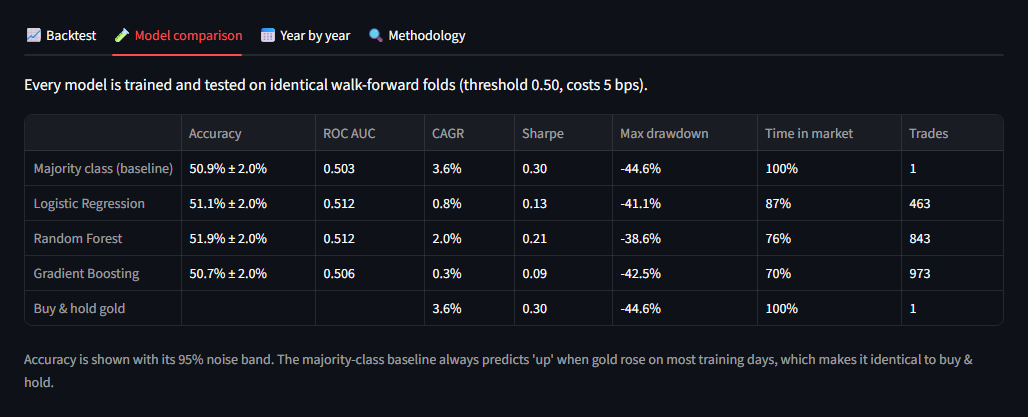
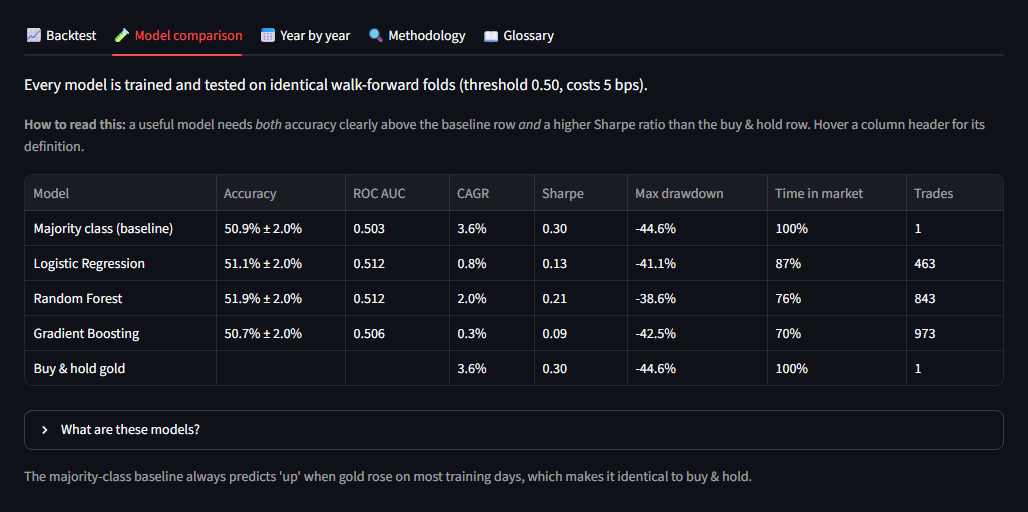
Add in-app guidance: how-to guide, tooltips and searchable glossary
- "How to use this dashboard" guide under the title
- Tooltips on every sidebar control, headline metric and table column
- "How to read this" notes on each tab and chart
- Description of the selected model, plus a models explainer
- New Glossary tab with 26 plain-English terms and search
- Definitions live in glossary.py so tooltips and glossary stay in sync
- Shorter metric labels so they no longer truncate on narrow screens
- Tests for glossary search and help-text coverage; refreshed screenshots

diff --git a/app.py b/app.py
@@ -9,6 +9,7 @@ import plotly.graph_objects as go
 import streamlit as st
 from plotly.subplots import make_subplots
 
+from glossary import COLUMN_HELP, MODEL_INFO, TERMS
 from goldpred.backtest import buy_and_hold, drawdown_curve, equity_curve, performance
 from goldpred.data import load_prices
 from goldpred.evaluate import classification_metrics, walk_forward
@@ -42,24 +43,37 @@ def get_predictions(model_name: str, first_test_year: int, windows: tuple[int, i
 # ---------- sidebar ----------
 with st.sidebar:
     st.header("⚙ Settings")
-    model_name = st.selectbox("Model", MODEL_NAMES, index=MODEL_NAMES.index("Random Forest"))
+    st.caption("Hover the small **?** icons for definitions, or open the 📖 Glossary tab.")
+    model_name = st.selectbox(
+        "Model", MODEL_NAMES, index=MODEL_NAMES.index("Random Forest"),
+        help="The classifier being tested. Pick the baseline to see the benchmark every model has to beat.",
+    )
+    st.caption(MODEL_INFO[model_name])
     first_test_year = st.slider(
         "First out-of-sample year", 2006, 2018, 2010,
-        help="Each year from here on is predicted by a model trained only on earlier years.",
+        help="Where testing starts. Each year from here on is predicted by a model trained only on "
+        "earlier years (walk-forward validation). Earlier start = more test years, less training data.",
     )
     st.subheader("Strategy")
     threshold = st.slider(
         "Go long when P(up) >", 0.40, 0.60, 0.50, 0.01,
-        help="Otherwise the strategy holds cash for the day.",
+        help=TERMS["P(up) threshold"] + " Otherwise the strategy holds cash for the day.",
     )
     cost_bps = st.slider(
         "Transaction cost (bps per trade)", 0.0, 20.0, 5.0, 0.5,
-        help="Charged every time the position changes. 1 bp = 0.01%.",
+        help=TERMS["Transaction cost"] + " " + TERMS["Basis point (bp)"],
     )
     with st.expander("Feature windows (trading days)"):
-        short_window = st.slider("Short trend", 3, 20, 5)
-        long_window = st.slider("Long trend", 10, 100, 20)
-        vol_window = st.slider("Volatility", 5, 60, 10)
+        st.caption("How many past trading days each feature looks back over.")
+        short_window = st.slider(
+            "Short trend", 3, 20, 5,
+            help="Length of the short moving average. The feature is yesterday's price relative to it.",
+        )
+        long_window = st.slider(
+            "Long trend", 10, 100, 20,
+            help="Length of the long moving average. Captures slower, multi-week trends.",
+        )
+        vol_window = st.slider("Volatility", 5, 60, 10, help=TERMS["Volatility"])
     st.caption(
         "Defaults were fixed before looking at test results. Sliding these until the "
         "backtest looks good is overfitting to the test period, not a better model."
@@ -85,19 +99,49 @@ st.markdown(
     f"trading days** ({test_period}) and traded as a long/cash strategy after costs."
 )
 
+with st.expander("🧭 New here? How to use this dashboard"):
+    st.markdown(
+        """
+1. **Pick a model** in the sidebar (on mobile, tap **›** at the top left to open it). Each model
+   is trained only on years *before* the one it predicts, exactly as it would be used in real life.
+2. **Read the five numbers below.** The small coloured tag under each compares the model with the
+   naive *baseline* or with simply *buying and holding gold*: green is better, red is worse.
+3. **Read the verdict box.** It sums up whether the model shows real skill and whether that
+   skill survives trading costs.
+4. **Explore the tabs:**
+   - 📈 **Backtest**: how \\$1 would have grown trading on the model, and how costs erode it.
+   - 🧪 **Model comparison**: all four models side by side on identical test data.
+   - 📅 **Year by year**: whether results are consistent or driven by a few lucky years.
+   - 🔍 **Methodology**: how the data, features and testing work.
+   - 📖 **Glossary**: plain-English definitions of every term, with search.
+5. **Hover the small ? icons** (or a table column header) for a quick definition.
+
+⚠ *Changing the sliders until the backtest looks great is overfitting: you're fitting to the
+test period, not finding a better model. The defaults were fixed before any results were seen.*
+"""
+    )
+
 cols = st.columns(5)
 cols[0].metric(
-    "Directional accuracy", f"{clf['accuracy']:.1%}",
+    "Accuracy", f"{clf['accuracy']:.1%}",
     f"{pp(clf['accuracy'] - base_clf['accuracy'])} vs baseline",
-    help=f"±{clf['accuracy_ci95']:.1%} is the 95% noise band for this many days. "
-    f"Baseline = always predict the training set's most common direction.",
+    help=f"{TERMS['Accuracy']}\n\nThe noise band for {clf['n_days']:,} days is ±{clf['accuracy_ci95']:.1%}: "
+    f"a smaller gap to the baseline ({base_clf['accuracy']:.1%}) could be pure luck.",
 )
-cols[1].metric("ROC AUC", f"{clf['roc_auc']:.3f}", help="0.5 = no better than a coin flip.")
-cols[2].metric("Strategy CAGR", f"{strat['cagr']:.1%}", f"{pp(strat['cagr'] - market['cagr'])} vs buy & hold")
-cols[3].metric("Sharpe ratio", f"{strat['sharpe']:.2f}", f"{strat['sharpe'] - market['sharpe']:+.2f} vs buy & hold")
+cols[1].metric("ROC AUC", f"{clf['roc_auc']:.3f}", help=TERMS["ROC AUC"])
+cols[2].metric(
+    "CAGR", f"{strat['cagr']:.1%}", f"{pp(strat['cagr'] - market['cagr'])} vs buy & hold",
+    help=f"{TERMS['CAGR']}\n\nStrategy after costs vs. buy & hold ({market['cagr']:.1%}).",
+)
+cols[3].metric(
+    "Sharpe ratio", f"{strat['sharpe']:.2f}", f"{strat['sharpe'] - market['sharpe']:+.2f} vs buy & hold",
+    help=f"{TERMS['Sharpe ratio']}\n\nBuy & hold gold scored {market['sharpe']:.2f}.",
+)
 cols[4].metric(
     "Max drawdown", f"{strat['max_drawdown']:.1%}",
     f"{pp(strat['max_drawdown'] - market['max_drawdown'])} vs buy & hold",
+    help=f"{TERMS['Drawdown']}\n\nBuy & hold's worst fall was {market['max_drawdown']:.1%}; "
+    "a green tag means the strategy's worst fall was smaller.",
 )
 
 edge = clf["accuracy"] - base_clf["accuracy"]
@@ -113,12 +157,18 @@ verdict = (
 )
 (st.success if significant and beats_market else st.info)(verdict, icon="🧭")
 
-tab_backtest, tab_models, tab_years, tab_method = st.tabs(
-    ["📈 Backtest", "🧪 Model comparison", "📅 Year by year", "🔍 Methodology"]
+tab_backtest, tab_models, tab_years, tab_method, tab_glossary = st.tabs(
+    ["📈 Backtest", "🧪 Model comparison", "📅 Year by year", "🔍 Methodology", "📖 Glossary"]
 )
 
 # ---------- backtest ----------
 with tab_backtest:
+    st.caption(
+        "**How to read this:** the top chart shows how **\\$1** invested on the first test day would have "
+        "grown, for the model's strategy (gold) and for buying and holding gold (grey). The bottom chart "
+        "shows the **drawdown**: how far each was below its previous peak. Shallower is better. "
+        "Hover the chart to see the values on any date."
+    )
     fig = make_subplots(rows=2, cols=1, shared_xaxes=True, row_heights=[0.7, 0.3], vertical_spacing=0.04)
     for daily, name, color in [(market_daily, "Buy & hold gold", GREY), (strat_daily, f"{model_name} strategy", GOLD)]:
         fig.add_scatter(x=daily.index, y=equity_curve(daily), name=name, line=dict(color=color), row=1, col=1)
@@ -132,13 +182,28 @@ with tab_backtest:
                       legend=dict(orientation="h", y=1.06, x=0))
     st.plotly_chart(fig, width="stretch")
 
+    years_tested = len(oos) / 252
     c1, c2, c3, c4 = st.columns(4)
-    c1.metric("Time in market", f"{strat['exposure']:.0%}")
-    c2.metric("Trades", f"{strat['trades']:,}")
-    c3.metric("Strategy total return", f"{strat['total_return']:.0%}")
-    c4.metric("Buy & hold total return", f"{market['total_return']:.0%}")
+    c1.metric("Time in market", f"{strat['exposure']:.0%}", help=TERMS["Time in market"])
+    c2.metric(
+        "Trades", f"{strat['trades']:,}",
+        help=f"{TERMS['Trade']} That's about {strat['trades'] / years_tested:.0f} trades a year.",
+    )
+    c3.metric(
+        "Strategy total return", f"{strat['total_return']:.0%}",
+        help=f"Overall gain or loss over the whole test period ({test_period}), after costs.",
+    )
+    c4.metric(
+        "Buy & hold total return", f"{market['total_return']:.0%}",
+        help=TERMS["Buy & hold"],
+    )
 
     st.subheader("How much do trading costs matter?")
+    st.caption(
+        "Each point re-runs the same backtest with a different cost per trade (x-axis). Where the gold "
+        "line drops below the grey one, costs have eaten the model's advantage. The dotted line marks "
+        "the cost currently set in the sidebar."
+    )
     costs = np.arange(0, 20.01, 0.25)
     sweep = pd.DataFrame(
         {
@@ -169,16 +234,34 @@ with tab_models:
         f"Every model is trained and tested on identical walk-forward folds "
         f"(threshold {threshold:.2f}, costs {cost_bps:g} bps)."
     )
-    all_oos = {name: get_predictions(name, first_test_year, windows) for name in MODEL_NAMES}
-    table = format_table(summarize(all_oos, threshold, cost_bps))
-    st.dataframe(table, width="stretch")
     st.caption(
-        "Accuracy is shown with its 95% noise band. The majority-class baseline always "
-        "predicts 'up' when gold rose on most training days, which makes it identical to buy & hold."
+        "**How to read this:** a useful model needs *both* accuracy clearly above the baseline row "
+        "*and* a higher Sharpe ratio than the buy & hold row. Hover a column header for its definition."
+    )
+    all_oos = {name: get_predictions(name, first_test_year, windows) for name in MODEL_NAMES}
+    table = format_table(summarize(all_oos, threshold, cost_bps)).rename_axis("Model").reset_index()
+    st.dataframe(
+        table, width="stretch", hide_index=True,
+        column_config={
+            "Model": st.column_config.TextColumn("Model", help="Open \"What are these models?\" below the table."),
+            **{col: st.column_config.TextColumn(col, help=text) for col, text in COLUMN_HELP.items()},
+        },
+    )
+    with st.expander("What are these models?"):
+        st.markdown("\n".join(f"- **{name}**: {text}" for name, text in MODEL_INFO.items()))
+    st.caption(
+        "The majority-class baseline always predicts 'up' when gold rose on most training days, "
+        "which makes it identical to buy & hold."
     )
 
 # ---------- per year ----------
 with tab_years:
+    st.caption(
+        "**How to read this:** a genuinely skilful model should beat the 50% coin-flip line (dotted) "
+        "in most years, not just a lucky few. **Left:** the model's accuracy each year (bars) next to "
+        "how often gold actually rose (line). **Right:** each calendar year's return after costs, "
+        "strategy vs. buy & hold."
+    )
     year = oos.index.year
     correct = (oos["proba_up"] > threshold).astype(int) == oos["target"]
     yearly = pd.DataFrame(
@@ -234,3 +317,17 @@ so {clf['up_day_rate']:.0%} accuracy is what "always say up" achieves. A model i
 statistical noise band, and if its trading edge survives realistic costs.
 """
     )
+
+# ---------- glossary ----------
+with tab_glossary:
+    query = st.text_input(
+        "Search terms", placeholder="e.g. Sharpe, drawdown, walk-forward…",
+        help="Matches term names and definitions.",
+    ).strip().lower()
+    matches = {term: text for term, text in TERMS.items() if query in term.lower() or query in text.lower()}
+    if not matches:
+        st.info(f"No terms match \"{query}\". Try a shorter word.")
+    else:
+        st.caption(f"Showing {len(matches)} of {len(TERMS)} terms.")
+    for term, text in sorted(matches.items(), key=lambda item: item[0].lower()):
+        st.markdown(f"**{term}**  \n{text}")

diff --git a/glossary.py b/glossary.py
@@ -1,0 +1,105 @@
+"""Plain-English definitions shown in the dashboard's tooltips and Glossary tab.
+
+Keeping them in one place means a hover tooltip and the glossary never disagree.
+"""
+
+TERMS = {
+    "Accuracy": (
+        "Share of test days on which the model called the direction (up or down) correctly. "
+        "On its own it means little: compare it with the baseline."
+    ),
+    "Baseline (majority class)": (
+        "A deliberately naive model that always predicts whichever direction was more common in its "
+        "training years (in this dataset that's always \"up\"). Any real model must beat it to be useful."
+    ),
+    "Basis point (bp)": "One hundredth of a percent: 1 bp = 0.01%, so 5 bps = 0.05%.",
+    "Buy & hold": (
+        "The simplest strategy: buy gold on the first test day and never sell. "
+        "It's the benchmark the trading strategy has to beat."
+    ),
+    "CAGR": (
+        "Compound Annual Growth Rate: the steady yearly return that would turn the starting amount "
+        "into the final amount. For example, 3.6% a year over ten years is about +42% in total."
+    ),
+    "Drawdown": (
+        "How far an investment has fallen below its previous high point. "
+        "**Max drawdown** is the worst such fall over the whole period; closer to 0% is better."
+    ),
+    "EUR/USD feature": (
+        "Gold's USD price divided by its EUR price gives the euro-dollar exchange rate. "
+        "Yesterday's change in it measures dollar strength; a weaker dollar tends to push gold up."
+    ),
+    "Feature": "An input the model learns from, such as yesterday's return or recent volatility.",
+    "Lagged return": "A past daily return used as a feature. *Lag 1* is yesterday's, *lag 5* is from 5 trading days ago.",
+    "LBMA PM fix": (
+        "The official gold price set each afternoon in London by the London Bullion Market Association. "
+        "This app predicts whether today's PM fix is above yesterday's."
+    ),
+    "Long / cash": (
+        "The strategy either holds gold for the day (*long*) or sits in cash earning 0%. "
+        "It never bets on prices falling (no short selling)."
+    ),
+    "Look-ahead bias": (
+        "Accidentally letting a model see information that wasn't available yet when the decision had "
+        "to be made. It makes backtests look far better than reality. Here every feature for a day "
+        "uses data up to the *previous* day only, and a unit test checks this."
+    ),
+    "Noise band (95% CI)": (
+        "The range within which accuracy could land purely by luck. If a model beats the baseline by "
+        "less than this, the difference isn't evidence of skill."
+    ),
+    "Out-of-sample": "Data the model never saw during training. Only out-of-sample results show real predictive power.",
+    "Overfitting": (
+        "Tuning a model (or its settings) until it fits past data, including its random noise, so well "
+        "that it fails on new data. Moving these sliders until the backtest looks great does this too."
+    ),
+    "P(up) threshold": (
+        "Each model outputs a probability that gold will rise. The strategy holds gold only when that "
+        "probability is above the threshold; a higher threshold means fewer, more confident trades."
+    ),
+    "Return": "The percentage change in price from one day's PM fix to the next.",
+    "ROC AUC": (
+        "How well the model ranks up days above down days, regardless of the threshold. "
+        "0.5 is a coin flip and 1.0 is perfect; values near 0.51 mean almost no signal."
+    ),
+    "RSI": (
+        "Relative Strength Index (14 days): a 0–100 momentum gauge comparing recent gains to losses. "
+        "Above 70 is often called \"overbought\" and below 30 \"oversold\"."
+    ),
+    "Sharpe ratio": (
+        "Return earned per unit of risk: average yearly return divided by yearly volatility. "
+        "Higher is better. It lets you compare strategies that take different amounts of risk."
+    ),
+    "Time in market": "Share of days the strategy held gold rather than cash.",
+    "Trade": "Any change of position (buying into gold or selling out to cash). Each one pays the transaction cost.",
+    "Transaction cost": (
+        "What it costs to buy or sell: broker fees plus the bid–ask spread. It is charged on every trade, "
+        "so strategies that trade often are hit hardest."
+    ),
+    "Trend features": (
+        "Yesterday's price compared with its average over the last few days (short) and weeks (long). "
+        "Positive means the price is above its recent average, i.e. trending up."
+    ),
+    "Volatility": "How much daily returns swing around, measured as their standard deviation over recent days.",
+    "Walk-forward validation": (
+        "Testing a model the way it would actually be used: train on all years before year *Y*, predict "
+        "*Y*, then move forward one year and repeat. The model never trains on the future."
+    ),
+}
+
+MODEL_INFO = {
+    "Majority class (baseline)": "Always predicts the most common direction from training. The benchmark to beat.",
+    "Logistic Regression": "A linear model that weighs each feature to estimate the chance of an up day. Simple and hard to overfit.",
+    "Random Forest": "Averages 300 decision trees, each built on a random sample of days. Can capture non-linear patterns.",
+    "Gradient Boosting": "Builds small decision trees one after another, each fixing the previous ones' mistakes.",
+}
+
+COLUMN_HELP = {
+    "Accuracy": TERMS["Accuracy"] + " ± shows the 95% noise band.",
+    "ROC AUC": TERMS["ROC AUC"],
+    "CAGR": TERMS["CAGR"] + " After transaction costs.",
+    "Sharpe": TERMS["Sharpe ratio"],
+    "Max drawdown": TERMS["Drawdown"],
+    "Time in market": TERMS["Time in market"],
+    "Trades": TERMS["Trade"],
+}

diff --git a/tests/test_app.py b/tests/test_app.py
@@ -1,8 +1,13 @@
-"""Smoke test: the Streamlit dashboard renders every tab without errors."""
+"""Smoke tests: the Streamlit dashboard and its help text render without errors."""
 
 from pathlib import Path
 
+import pandas as pd
 import pytest
+
+from glossary import COLUMN_HELP, MODEL_INFO, TERMS
+from goldpred.models import MODEL_NAMES
+from goldpred.report import format_table
 
 AppTest = pytest.importorskip("streamlit.testing.v1").AppTest
 APP = str(Path(__file__).resolve().parent.parent / "app.py")
@@ -12,8 +17,10 @@ def test_app_renders_with_defaults():
     at = AppTest.from_file(APP, default_timeout=300).run()
     assert not at.exception
     assert len(at.metric) >= 5
+    assert all(m.help for m in at.metric), "every metric should have a tooltip"
     assert "Gold Price Direction Forecasting" in at.title[0].value
     assert len(at.dataframe) == 1  # model comparison table
+    assert len(at.tabs) == 5
 
 
 def test_app_handles_other_settings():
@@ -24,3 +31,21 @@ def test_app_handles_other_settings():
     at.slider[2].set_value(0.0)  # zero transaction costs
     at.run()
     assert not at.exception
+
+
+def test_glossary_search():
+    at = AppTest.from_file(APP, default_timeout=300).run()
+    at.text_input[0].set_value("sharpe").run()
+    assert not at.exception
+    shown = " ".join(m.value for m in at.markdown)
+    assert "**Sharpe ratio**" in shown
+    assert "**Walk-forward validation**" not in shown
+
+
+def test_help_text_covers_every_model_and_column():
+    assert set(MODEL_INFO) == set(MODEL_NAMES)
+    columns = format_table(pd.DataFrame(columns=[
+        "accuracy", "accuracy_ci95", "roc_auc", "cagr", "sharpe", "max_drawdown", "exposure", "trades",
+    ])).columns
+    assert set(COLUMN_HELP) == set(columns)
+    assert all(text.strip() for text in TERMS.values())

diff --git a/README.md b/README.md
@@ -36,6 +36,8 @@ The conclusion is that daily gold direction is close to unpredictable from its o
 
 The [Streamlit app](https://algo-trading-gold-price-predictor.streamlit.app/) lets you switch models, change the test start year, entry threshold, trading costs and feature windows. Every view is compared against the naive baseline and buy & hold.
 
+It's built for non-specialists too. There's a step-by-step "How to use this dashboard" guide, a hover tooltip on every control, metric and table column, a "how to read this" note for each chart, and a searchable 📖 Glossary of 26 terms (Sharpe ratio, drawdown, walk-forward validation, look-ahead bias and more).
+
 | Model comparison | Year by year |
 |---|---|
 | ![Model comparison tab](docs/model_comparison.png) | ![Year-by-year tab](docs/year_by_year.png) |
@@ -65,6 +67,7 @@ All features are computed from information available at the previous day's PM fi
 
 ```
 ├── app.py                        # Streamlit dashboard
+├── glossary.py                   # Plain-English definitions behind the app's tooltips and Glossary tab
 ├── gold_price_prediction.ipynb   # Narrative analysis: EDA → features → walk-forward → backtest
 ├── goldpred/                     # Reusable, tested pipeline
 │   ├── data.py                   #   load and clean LBMA prices
